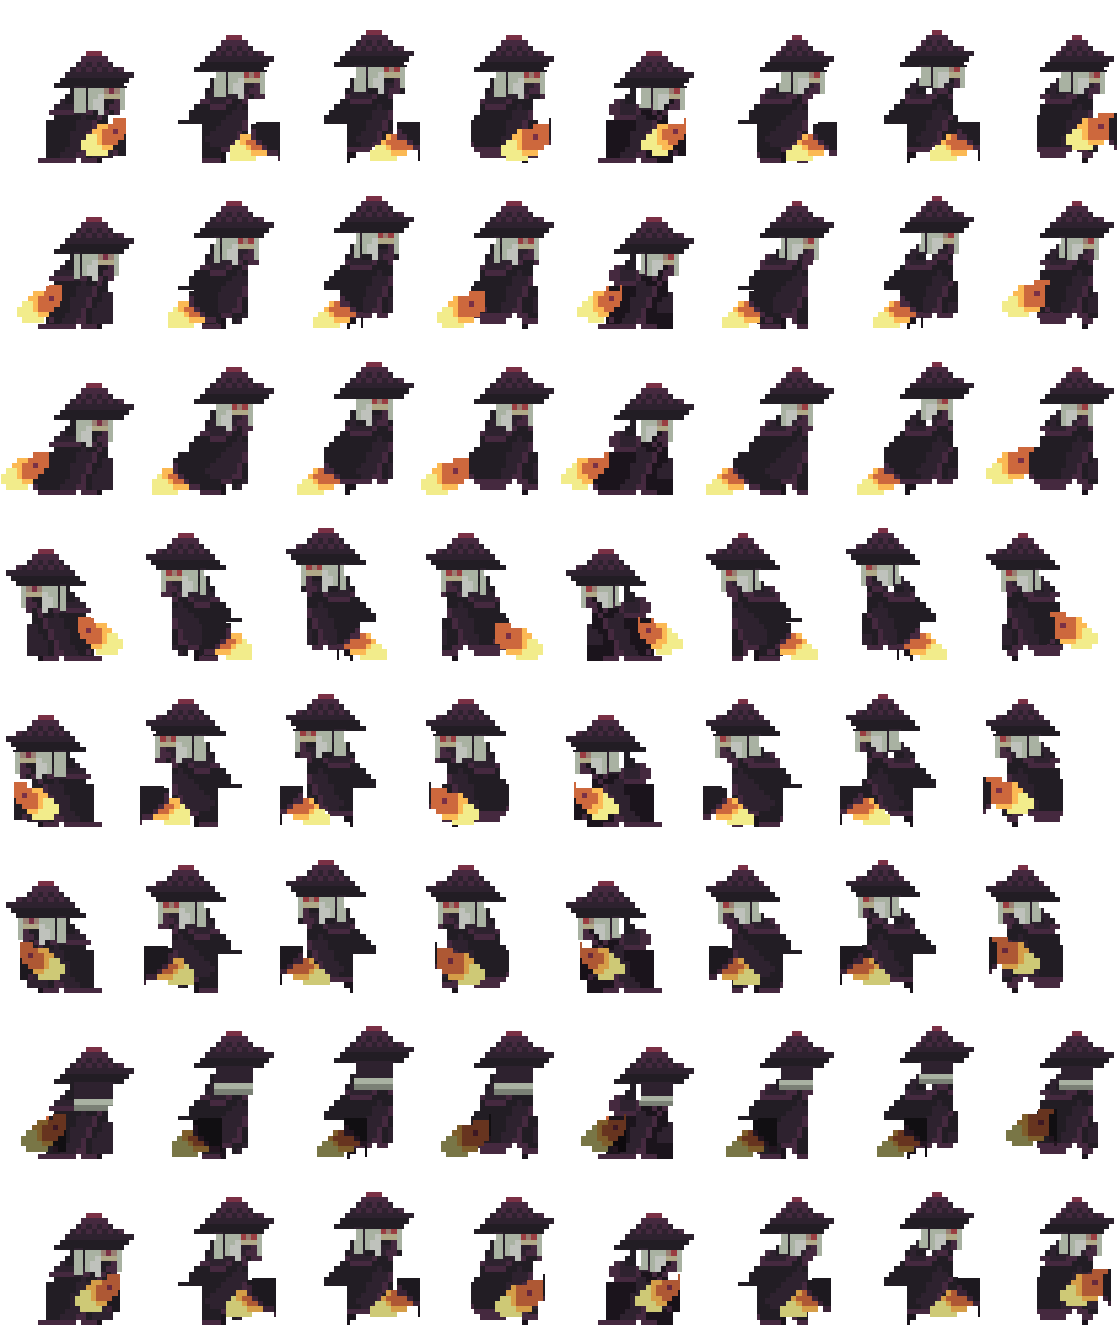
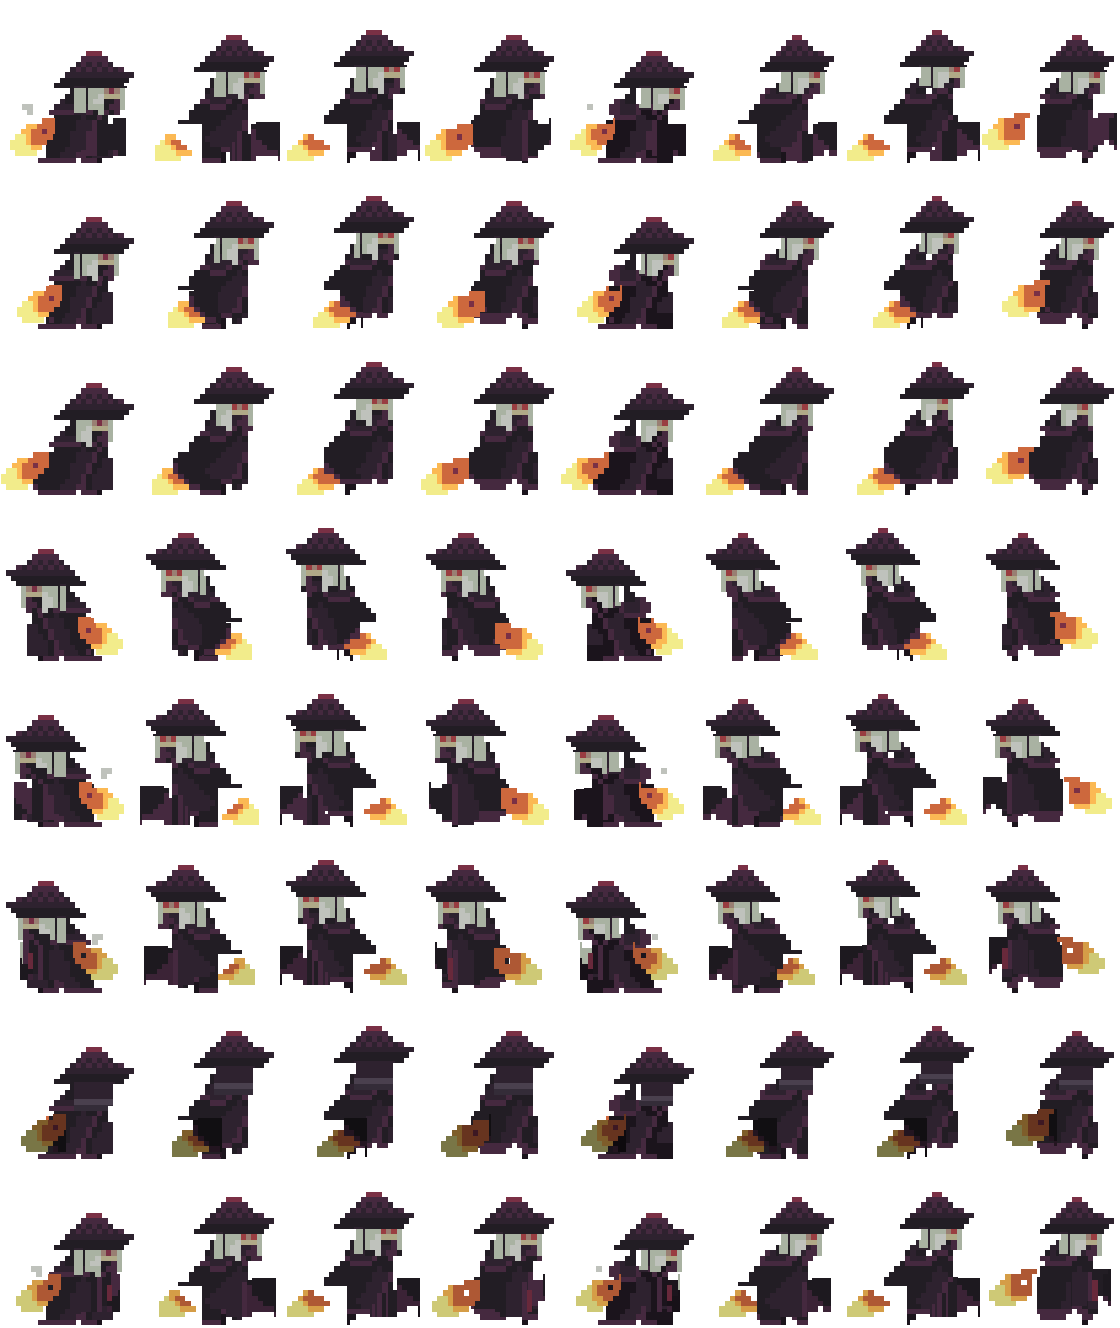
Warrior walk: blade trails behind movement (natural orientation) + darker nape
Per request, the fiery blade now hangs BEHIND the direction of travel: walking
right (E/SE/NE) the blade sits on the LEFT; walking left (W/SW/NW) it sits on the
RIGHT. Previously E/W/NE/NW had it on the leading side (it read as floating in
front); SE/SW were already trailing and are untouched. The blade is TRANSLATED to
the trailing side keeping its authored orientation (pale base + flame licking the
natural way) — not mirrored/flipped. Idempotent: rows already trailing are skipped.
Nothing above the waist changes (per-row diff confined to y>=104), so head, hat,
face and eye-mark stay byte-identical.

Also darken the bright grey nape band on the N (back) row so the back reads as the
hood/cape instead of a glaring grey bar ("la capa no es correcta" hacia el norte).

Verified in-engine walking E and W; all-8 render checked for consistency.

tools/warrior-walk8-blade-trailing.py — idempotent transform (--report for dry run)

diff --git a/tools/warrior-walk8-blade-trailing.py b/tools/warrior-walk8-blade-trailing.py
@@ -1,0 +1,126 @@
+#!/usr/bin/env python3
+# Warrior (Clarice) WALK 8-dir — put the fiery blade on the TRAILING side + fix the
+# back-view nape band.
+#
+# Requested look: the blade hangs BEHIND the direction of travel — walk right (E) → blade
+# on the LEFT; walk left (W) → blade on the RIGHT (and the same for the diagonals by their
+# horizontal component). The hand-authored sheet had E/W/NE/NW with the blade on the
+# LEADING side; SE/SW were already trailing. We also darken the bright grey nape band on
+# the N (back) row so the back reads as the hood/cape instead of a glaring grey bar.
+#
+# Implementation: per affected row, lift the torch pixels (warm flame/ember/glow, lower
+# body only), erase+inpaint them with the surrounding cloak, and re-stamp them TRANSLATED
+# to the trailing side WITHOUT flipping — the blade keeps its authored orientation (pale
+# base + flame licking the natural way), it just moves to the other side of the body. Only
+# rows whose blade is on the WRONG side move, so the script is idempotent. Nothing above
+# the waist (head/hat/face/eye-mark) is touched.
+#
+#   python3 tools/warrior-walk8-blade-trailing.py --report   # dry run
+#   python3 tools/warrior-walk8-blade-trailing.py            # apply in place
+import sys
+from PIL import Image
+
+SHEET = "assets/erw/hero/classes/warrior_walk8.png"
+ROWS, FC = 8, 8
+BUCKETS = ["E", "SE", "S", "SW", "W", "NW", "N", "NE"]
+REPORT = "--report" in sys.argv
+CENTER = 68            # mirror axis (≈ body centroid CLASS_AX=65, tuned to stay in-frame)
+TORCH_Y_MIN = 104      # blade lives below the head; never touch y<104 (identity band)
+# desired trailing side per facing row (by horizontal movement component); None = leave
+DESIRED = {0: "L", 1: "L", 7: "L", 3: "R", 4: "R", 5: "R"}
+# N (back) nape band recolour: bright grey hair -> muted hood tone
+NAPE = {(169, 178, 162, 255): (74, 64, 78, 255),
+        (122, 128, 117, 255): (52, 44, 56, 255)}
+
+
+def is_torch(p):
+    r, g, b, a = p
+    if a <= 20:
+        return False
+    if r > 120 and r > b + 35:
+        return True
+    if r > 170 and g > 150 and b > 110:
+        return True
+    return False
+
+
+def nearest_cloak(px, ox, oy, x, y, cw, ch, rad=8):
+    for rad_i in range(1, rad + 1):
+        best = None
+        for dy in range(-rad_i, rad_i + 1):
+            for dx in range(-rad_i, rad_i + 1):
+                if max(abs(dx), abs(dy)) != rad_i:
+                    continue
+                nx, ny = x + dx, y + dy
+                if 0 <= nx < cw and 0 <= ny < ch:
+                    p = px[ox + nx, oy + ny]
+                    if p[3] > 20 and not is_torch(p):
+                        d = dx * dx + dy * dy
+                        if best is None or d < best[0]:
+                            best = (d, p)
+        if best:
+            return best[1]
+    return (0, 0, 0, 0)
+
+
+def main():
+    im = Image.open(SHEET).convert("RGBA")
+    W, H = im.size
+    cw, ch = W // FC, H // ROWS
+    px = im.load()
+    changed = 0
+    for r in range(ROWS):
+        want = DESIRED.get(r)
+        if not want:
+            continue
+        oy = r * ch
+        # current blade centroid across the row
+        allx = [x for f in range(FC) for y in range(TORCH_Y_MIN, ch)
+                for x in range(cw) if is_torch(px[f * cw + x, oy + y])]
+        if not allx:
+            continue
+        cx = sum(allx) / len(allx)
+        side = "L" if cx < 65 else "R"
+        if side == want:
+            continue  # already trailing -> idempotent skip
+        print(f"  {BUCKETS[r]:3}: blade on {side}, want {want} -> translate to x~{2 * CENTER - int(cx)}")
+        changed += 1
+        if REPORT:
+            continue
+        for f in range(FC):
+            ox = f * cw
+            pts = [(x, y, px[ox + x, oy + y]) for y in range(TORCH_Y_MIN, ch)
+                   for x in range(cw) if is_torch(px[ox + x, oy + y])]
+            if not pts:
+                continue
+            fcx = sum(x for x, _, _ in pts) / len(pts)   # per-frame centroid
+            delta = int(round(2 * CENTER - 2 * fcx))     # move to mirrored position, keep orientation
+            for x, y, _ in pts:               # erase old blade, fill with cloak
+                px[ox + x, oy + y] = nearest_cloak(px, ox, oy, x, y, cw, ch)
+            for x, y, col in pts:             # re-stamp TRANSLATED (same shape, trailing side)
+                nx = x + delta
+                if 0 <= nx < cw:
+                    px[ox + nx, oy + y] = col
+    # N (back) nape band recolour
+    oy = 6 * ch
+    nape_px = 0
+    for f in range(FC):
+        ox = f * cw
+        for y in range(ch):
+            for x in range(cw):
+                p = px[ox + x, oy + y]
+                if p in NAPE:
+                    nape_px += 1
+                    if not REPORT:
+                        px[ox + x, oy + y] = NAPE[p]
+    if nape_px:
+        print(f"  N  : darken nape band ({nape_px}px)")
+        changed += 1
+    print(f"{'[report] would change' if REPORT else 'changed'} {changed} item(s)")
+    if not REPORT and changed:
+        im.save(SHEET)
+        print(f"wrote {SHEET}")
+
+
+if __name__ == "__main__":
+    main()
